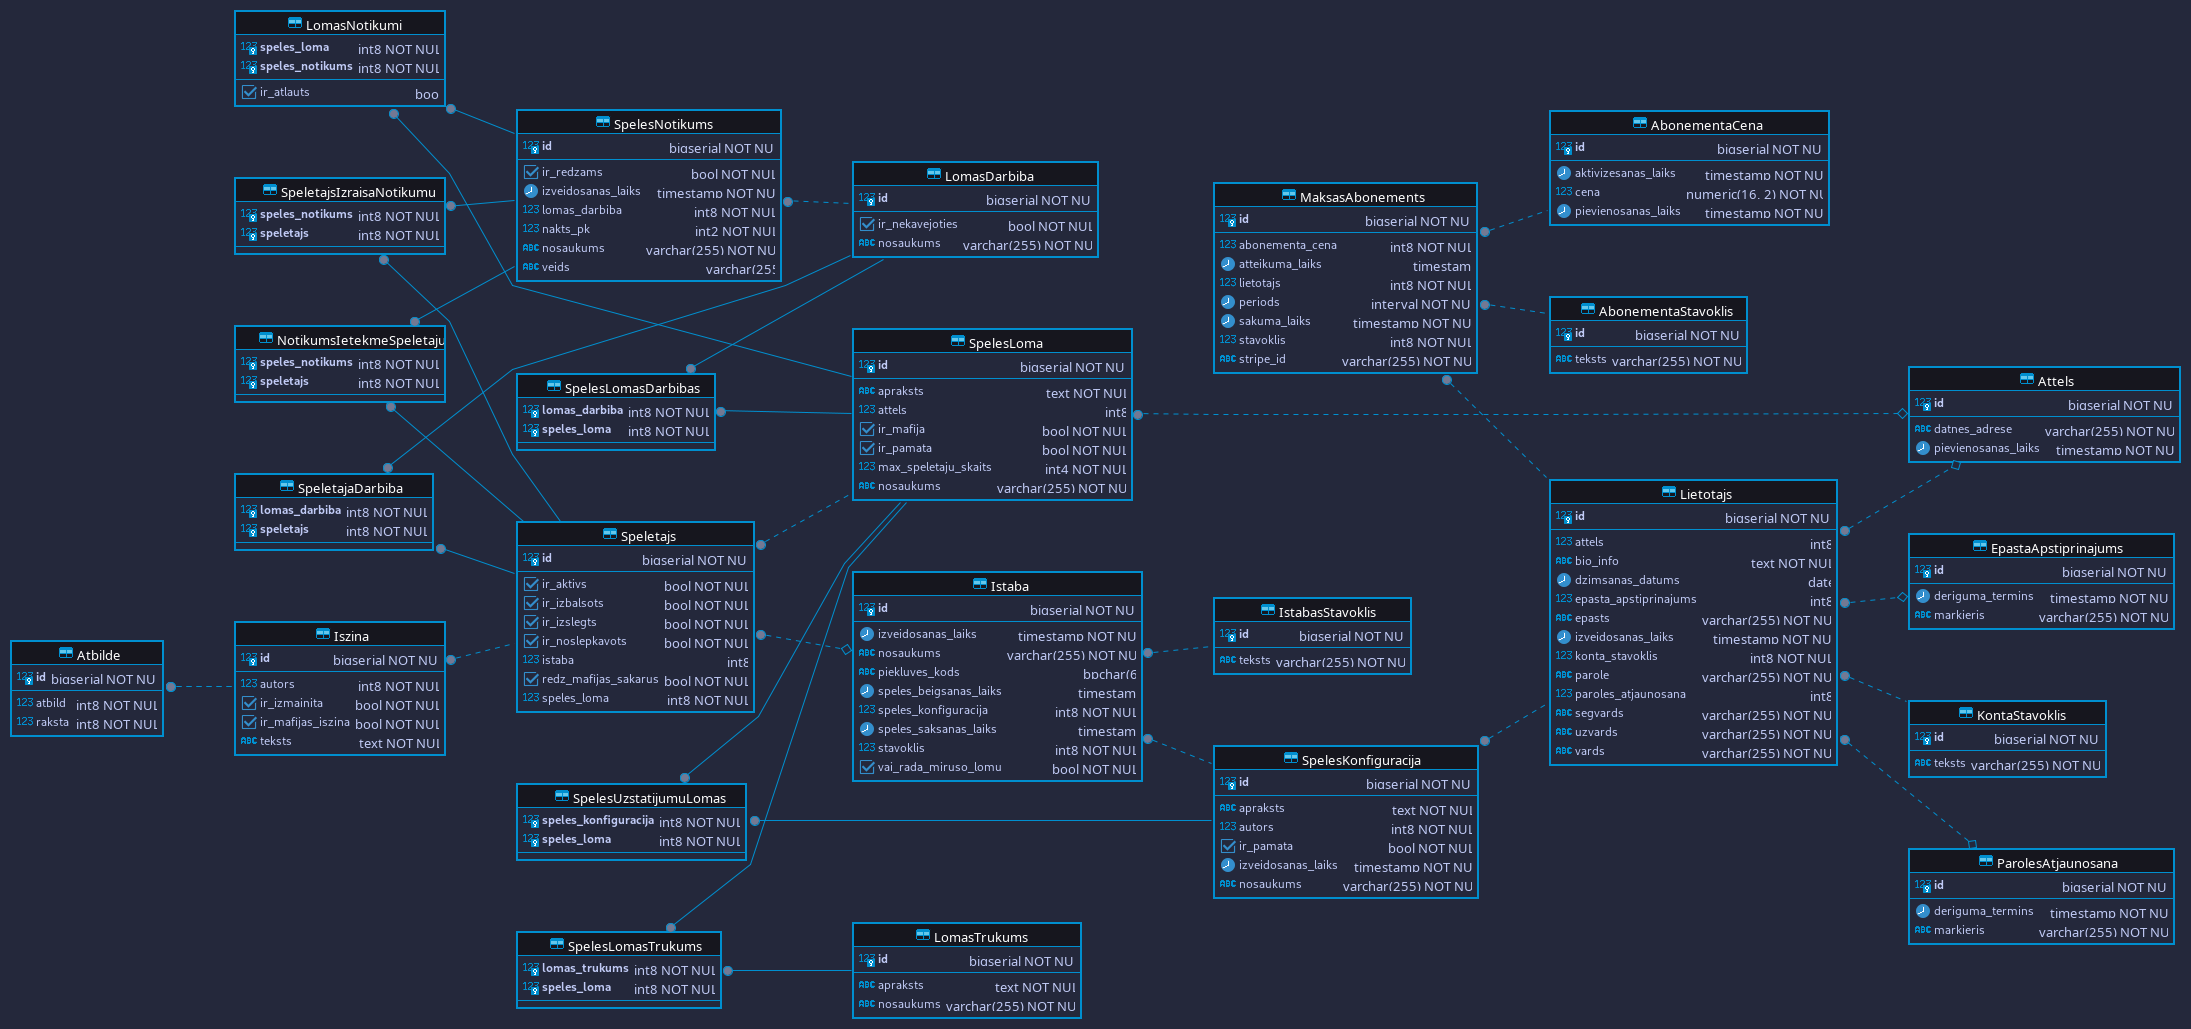
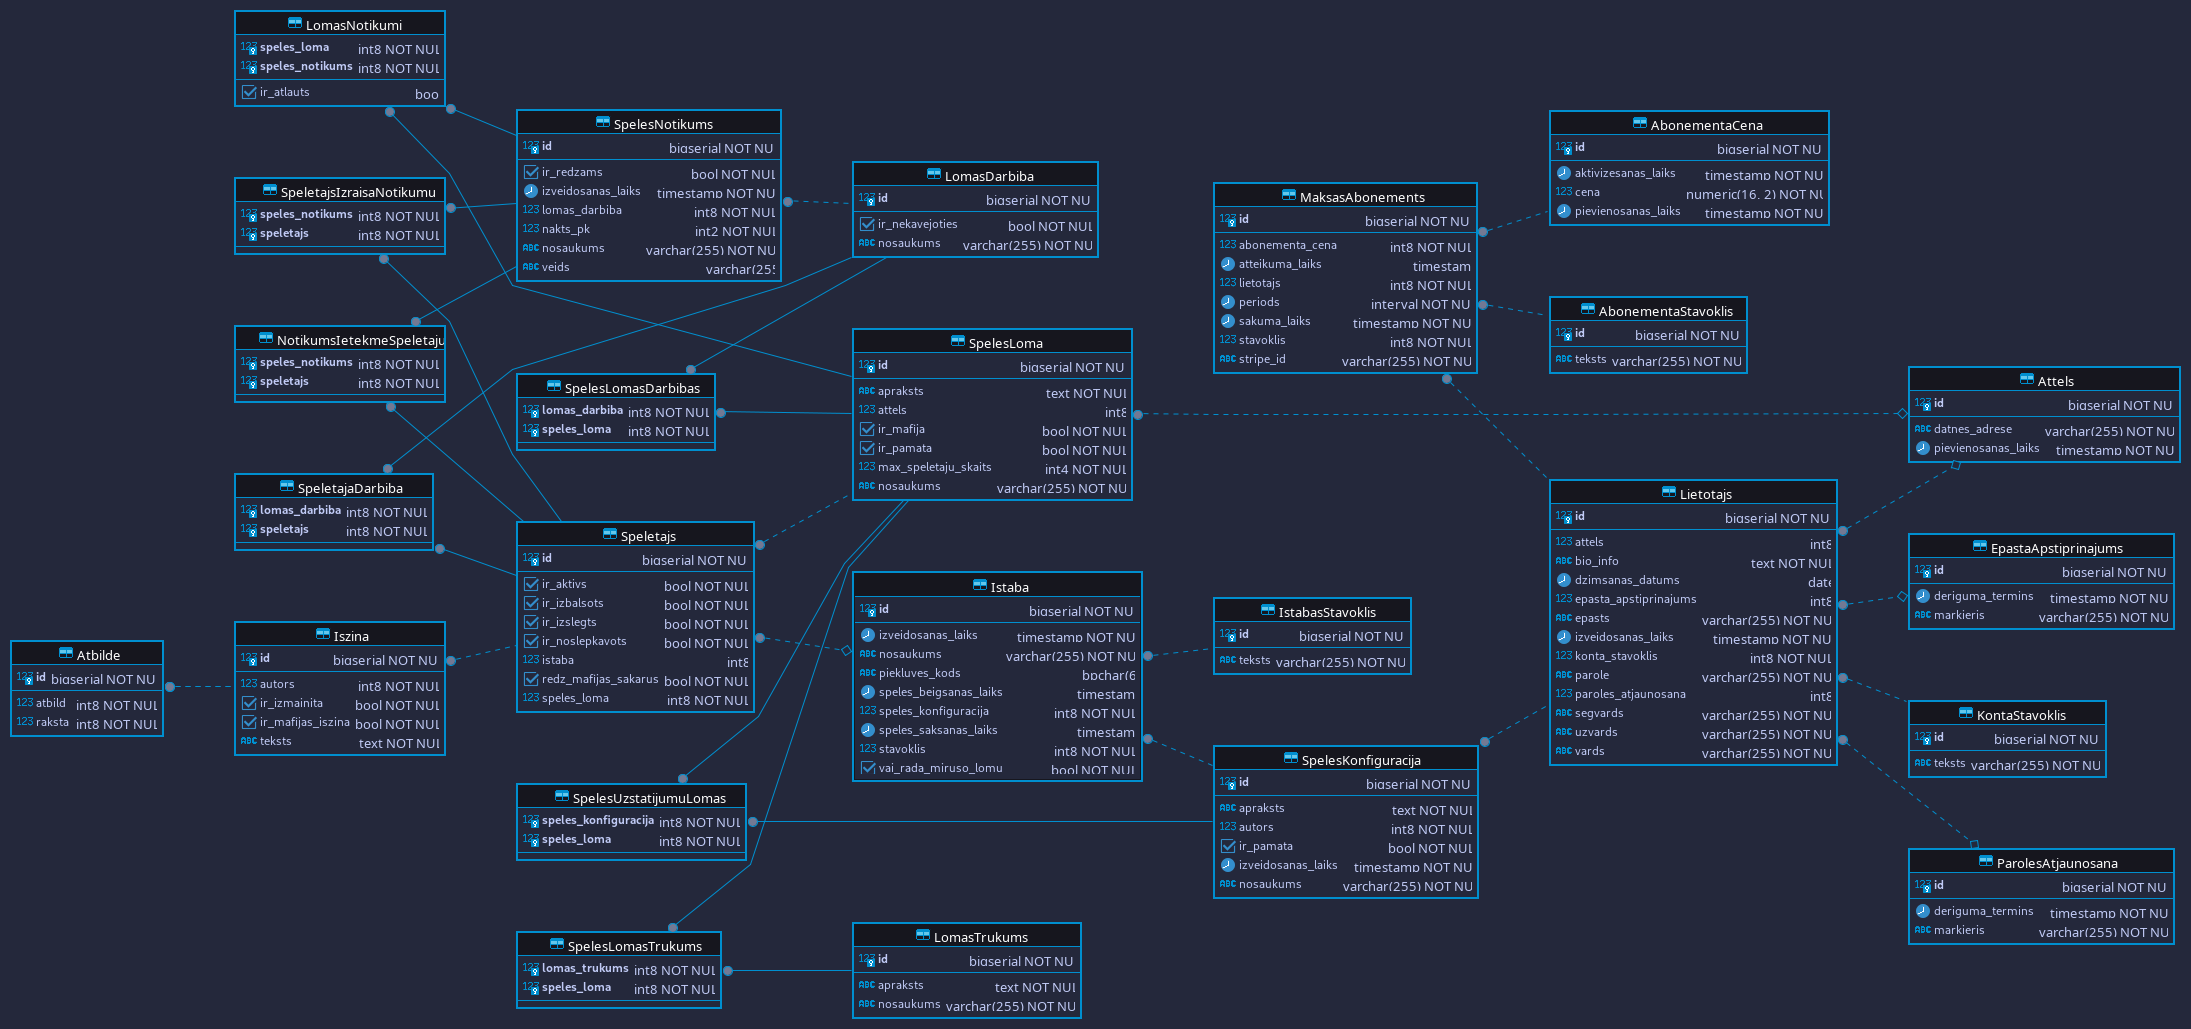
fix: typos in db tables

Changed region(s): [[0.3724, 0.5598, 0.5276, 0.7775]]

diff --git a/src/design/entities/game-role.tex b/src/design/entities/game-role.tex
@@ -1,7 +1,7 @@
 \begin{entityTable}{SpelesLoma}{entity-game-role}
 	\entityTableRow{nosaukums}{varchar(255)}{unique, not null}{Lomas nosaukums}
 	\entityTableRow{apraksts}{text}{default '', not null}{Lomas apraksts}
-	\entityTableRow{max\_speletaju\_ skaits}{int4}{default 1, not null, check (\lowercase{max\_speletaju\_ skaits} > 0)}{Maksimālais spēlētāju skaiks spēlē ar doto lomu}
+	\entityTableRow{max\_speletaju\_ skaits}{int4}{default 1, not null, check (\lowercase{max\_speletaju\_ skaits} > 0)}{Maksimālais spēlētāju skaits spēlē ar doto lomu}
 	\entityTableRow{ir\_pamata}{bool}{default false, not null}{Vai loma ir spēles pamatā vai lietotāju izveidots?}
 	\entityTableRow{ir\_mafija}{bool}{default false, not null}{Vai loma ir mafija?}
 	\entityTableRow{attels}{int8}{}{Lomas attēls, \texttt{FOREING KEY} uz \hyperref[tab:entity-image]{Attels} tabulas id kolonnu}

diff --git a/src/design/entities/message.tex b/src/design/entities/message.tex
@@ -1,6 +1,6 @@
 \begin{entityTable}{Iszina}{entity-message}
 	\entityTableRow{teksts}{text}{not null}{Īsziņas teksts}
 	\entityTableRow{if\_mafijas\_iszina}{bool}{default false, not null}{Vai īsziņas sūtītājs ir mafija?}
-	\entityTableRow{ir\_izmainita}{bool}{default false, not null}{Vai īsziņas staurs ir izmainīts?}
+	\entityTableRow{ir\_izmainita}{bool}{default false, not null}{Vai īsziņas saturs ir izmainīts?}
 	\entityTableRow{autors}{int8}{not null}{Īsziņas sūtītājs, \texttt{FOREING KEY} uz \hyperref[tab:entity-user]{Lietotajs} tabulas id kolonnu}
 \end{entityTable}

diff --git a/src/design/entities/email-confirmation.tex b/src/design/entities/email-confirmation.tex
@@ -1,4 +1,4 @@
 \begin{entityTable}{EpastaApstiprinajums}{entity-email-confirmation}
-	\entityTableRow{markieris}{varchar(255)}{unique, not null}{Ģenerēts marķieris epasta lietotāja apstiprināšanai}
-	\entityTableRow{deriguma\_termins}{timestamp}{not null}{Laiks, līdz kuram e-pasta apstiprināša ir iespējama}
+	\entityTableRow{markieris}{varchar(255)}{unique, not null}{Ģenerēts marķieris e-pasta lietotāja apstiprināšanai}
+	\entityTableRow{deriguma\_termins}{timestamp}{not null}{Laiks, līdz kuram e-pasta apstiprināšana ir iespējama}
 \end{entityTable}

diff --git a/src/design/entities/password-recovery.tex b/src/design/entities/password-recovery.tex
@@ -1,4 +1,4 @@
 \begin{entityTable}{ParolesAtjaunosana}{entity-password-recovery}
-	\entityTableRow{markieris}{varchar(255)}{unique, not null}{Ģenerēts marķieris epasta lietotājaparoles atjaunošanai}
+	\entityTableRow{markieris}{varchar(255)}{unique, not null}{Ģenerēts marķieris e-pasta lietotāja paroles atjaunošanai}
 	\entityTableRow{deriguma\_termins}{timestamp}{not null}{Laiks, līdz kurams paroles atjaunošana ir iespējama}
 \end{entityTable}
